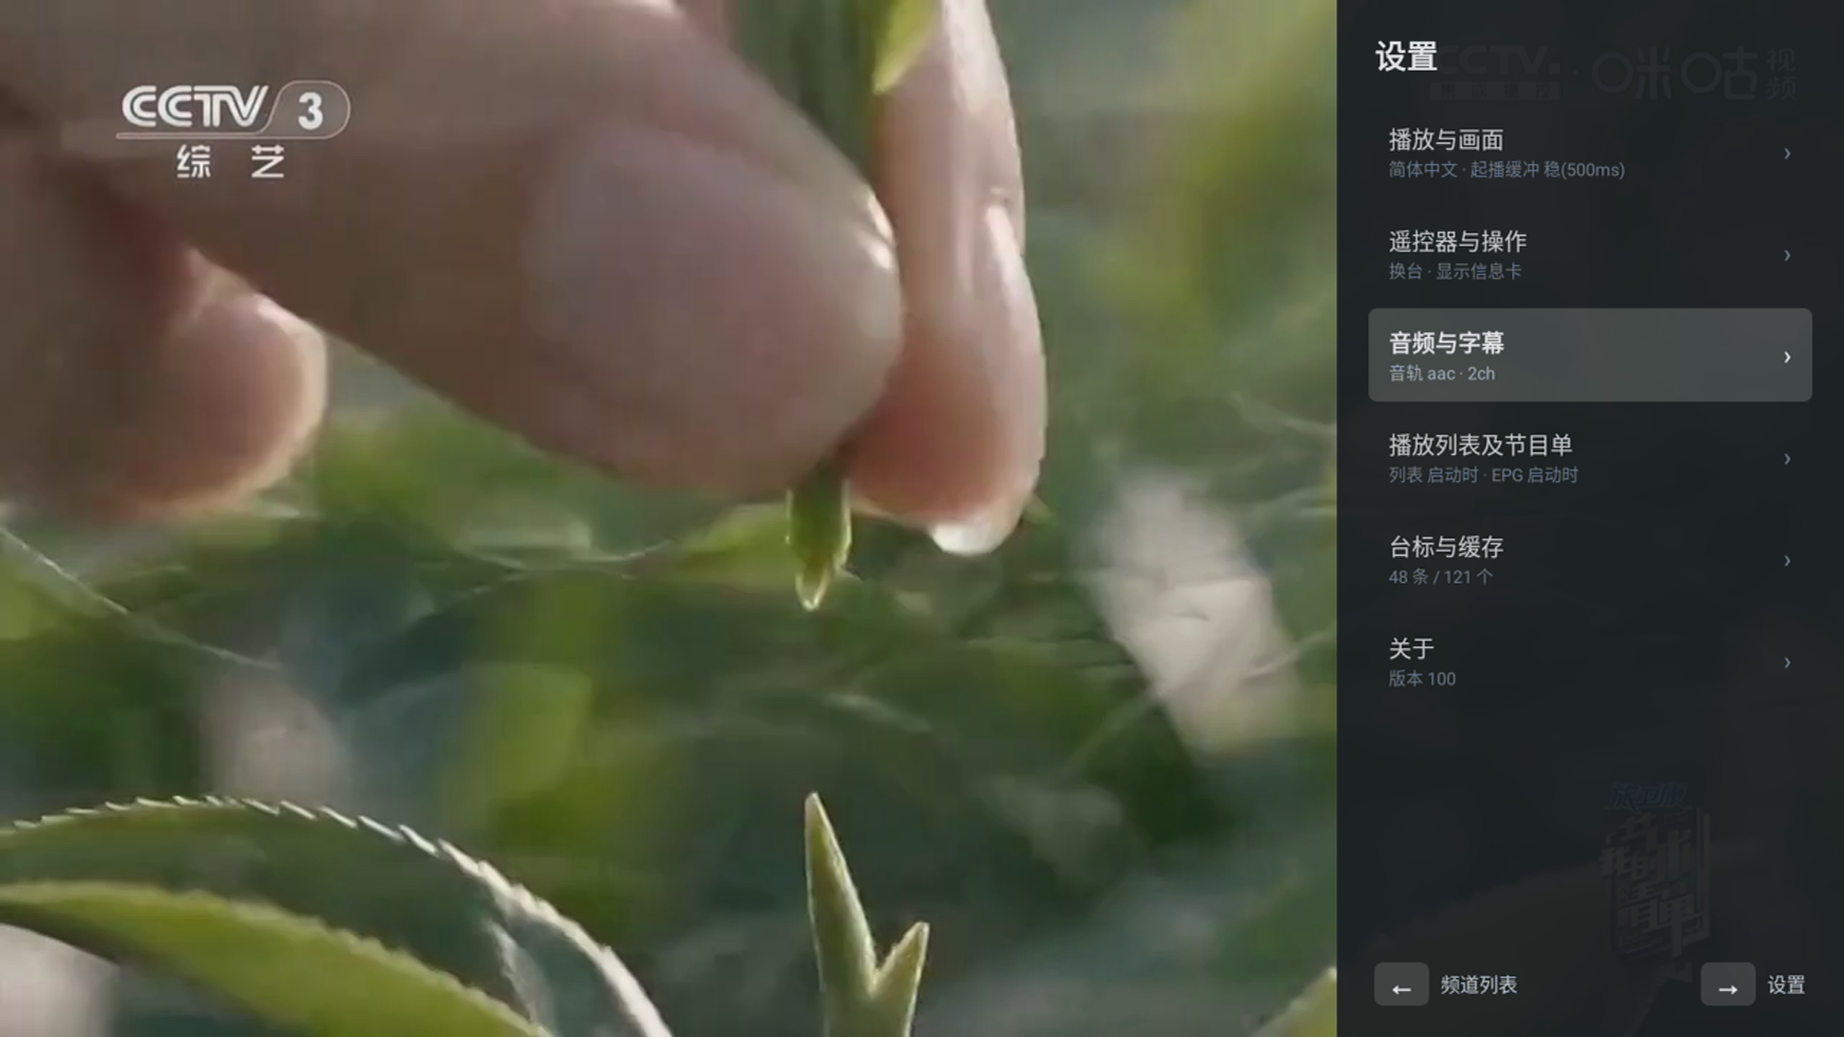
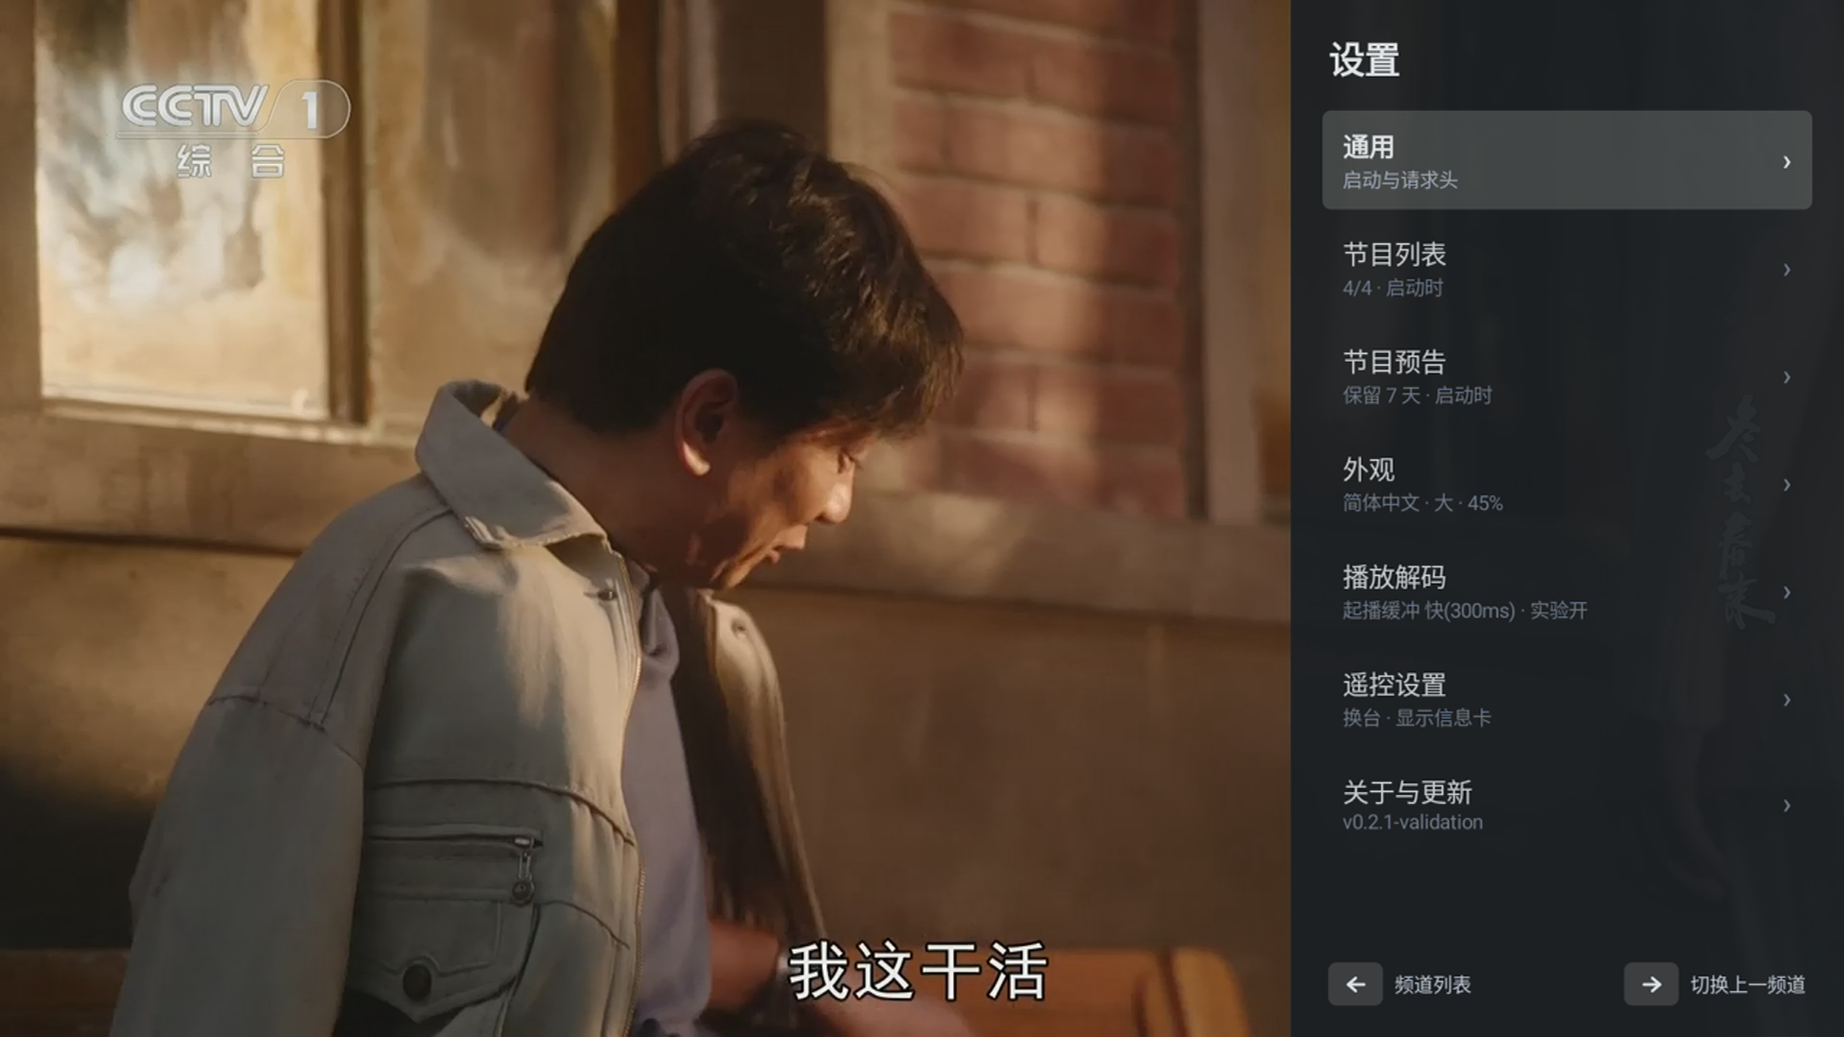
docs(readme): complete bilingual README, update v0.2.1 screenshots, strip quoted pipe UA

diff --git a/android/app/src/main/java/com/cjlhll/iptv/HttpStreamAddress.kt b/android/app/src/main/java/com/cjlhll/iptv/HttpStreamAddress.kt
@@ -21,8 +21,16 @@ object HttpStreamAddress {
         val headers: Map<String, String> = emptyMap(),
     )
 
+    private fun stripOuterQuotes(raw: String): String {
+        val s = raw.trim()
+        if (s.length >= 2 && ((s.startsWith('"') && s.endsWith('"')) || (s.startsWith('\'') && s.endsWith('\'')))) {
+            return s.substring(1, s.length - 1).trim()
+        }
+        return s
+    }
+
     fun normalizeUserAgent(raw: String?): String? {
-        val trimmed = raw?.trim().orEmpty()
+        val trimmed = stripOuterQuotes(raw.orEmpty())
         if (trimmed.isEmpty()) return null
         return if (trimmed.equals("VLC", ignoreCase = true)) DEFAULT_USER_AGENT else trimmed
     }
@@ -53,7 +61,9 @@ object HttpStreamAddress {
                 val keyRaw = segment.substring(0, eq).trim()
                 val valRaw = segment.substring(eq + 1).trim()
                 if (keyRaw.isEmpty() || valRaw.isEmpty()) continue
-                val decoded = runCatching { java.net.URLDecoder.decode(valRaw, "UTF-8") }.getOrDefault(valRaw).trim()
+                val decoded = stripOuterQuotes(
+                    runCatching { java.net.URLDecoder.decode(valRaw, "UTF-8") }.getOrDefault(valRaw)
+                )
                 if (decoded.isEmpty()) continue
                 val canonical = PlaylistSources.canonicalHeaderName(keyRaw)
                 pipeHeaders[canonical] = if (canonical == "User-Agent") {

diff --git a/android/app/src/test/java/com/cjlhll/iptv/PlaylistSourceTest.kt b/android/app/src/test/java/com/cjlhll/iptv/PlaylistSourceTest.kt
@@ -160,4 +160,15 @@ class PlaylistSourceTest {
         assertEquals(HttpStreamAddress.DEFAULT_USER_AGENT, headers3["User-Agent"])
         assertFalse(headers3.containsKey("Referer"))
     }
+
+    @Test
+    fun pipeQuotedUserAgentStripsOuterQuotes() {
+        val parsed = HttpStreamAddress.resolve(
+            url = "http://173.208.212.130:8181/720p/cctv1.m3u8|User-Agent=\"bingcha/1.1 (mianfeifenxiang)\"",
+            extinfUserAgent = "VLC",
+            extinfReferrer = null,
+        )
+        assertEquals("http://173.208.212.130:8181/720p/cctv1.m3u8", parsed.url)
+        assertEquals("bingcha/1.1 (mianfeifenxiang)", parsed.userAgent)
+    }
 }

diff --git a/README.md b/README.md
@@ -16,13 +16,13 @@
   </p>
 
   <p>
-    <a href="#为什么选择-iqtv-lite">产品优势</a> ·
+    <a href="#为什么选择-iqtv-lite">中文文档</a> ·
     <a href="#界面展示">界面展示</a> ·
     <a href="#核心功能">核心功能</a> ·
     <a href="#播放列表多线路与自定义-header-示例">播放列表与 Header</a> ·
     <a href="#安装与更新">安装与更新</a> ·
     <a href="#遥控器操作指南">遥控器操作</a> ·
-    <a href="#english-overview">English</a>
+    <a href="#english-documentation">English Documentation</a>
   </p>
 </div>
 
@@ -30,9 +30,9 @@
 
 ## 为什么选择 IQTV Lite
 
-- **完全免费与开源（GPLv3），零广告、无付费解锁墙**：多播放源切换、XMLTV 节目单、回看、自定义按键、手机扫码控制台与内置更新全部免费可用，没有会员门槛。
-- **极致轻量化与流畅性能优化**：安装包约 **8.6 MB**，底层采用轻量化原生高性能解析核心，面对上万条频道与大体积 EPG 节目单也能秒级加载与检索；选台列表与硬件解码全链路零等待，即使在老旧入门级电视盒子上连续上下换台、快速翻组也依然顺滑跟手。
-- **开箱兼容复杂直播源**：完整支持防盗链 `Referer` / `User-Agent` / `Cookie` 等请求头配置、单台多线路失效自动轮询、以及同 `tvg-id` 下的 4K 与标准高清独立区分。
+- **完全免费与开源（GPLv3），零广告、无付费解锁墙**：多播放源切换、XMLTV 节目单、回看、自定义按键、手机扫码网页配置与内置更新全部免费可用，没有会员门槛。
+- **极致轻量化与流畅性能优化**：安装包体积精简，底层采用 Rust 原生高性能解析核心与 SQLite EPG 索引，面对上万条频道与大体积节目单也能秒级加载与检索；选台列表与硬件解码全链路零等待，即使在入门级电视盒子上连续上下换台、快速翻组也依然顺滑跟手。
+- **开箱兼容复杂直播源**：完整支持防盗链 `Referer` / `User-Agent` / `Cookie` 等请求头配置（兼容单/双引号包裹值）、同频道多线路切换与失效自动轮询、以及同 `tvg-id` 下的 4K 与标准高清独立区分。
 
 ---
 
@@ -43,7 +43,7 @@
     <td width="50%" align="center">
       <img src="assets/screenshots/player-infocard.png" alt="播放信息卡与控制台" />
       <br />
-      <sub><b>双层智能信息栏</b>：换台仅轻量通透展示当前频道；按 OK 主动呼出完整控制台，下方一行集成最近观看频道与 收藏 / 适应 / 音轨 / 字幕 / 多画面 / 设置 快捷控制</sub>
+      <sub><b>双层智能信息栏</b>：换台轻量通透展示当前频道；按 OK 呼出完整控制台，集成最近观看频道与 收藏 / 线路切换 / 适应 / 音轨 / 字幕 / 多画面 / 设置 快捷控制</sub>
     </td>
     <td width="50%" align="center">
       <img src="assets/screenshots/channel-drawer.png" alt="频道列表与节目预告抽屉" />
@@ -58,16 +58,16 @@
       <sub><b>逐级抽屉与多源切换</b>：按左键依次展开「频道」「分组」「播放源」，视野清爽不遮挡画面</sub>
     </td>
     <td width="50%" align="center">
-      <img src="assets/screenshots/settings.png" alt="简洁电视端设置菜单" />
+      <img src="assets/screenshots/settings.png" alt="7大分类电视端设置菜单" />
       <br />
-      <sub><b>大屏设置中心</b>：7 大分类（通用 / 节目列表 / 节目预告 / 外观 / 播放解码 / 遥控设置 / 关于与更新），支持中英文实时切换、按键自定义与设置内联检查更新</sub>
+      <sub><b>7 大分类设置中心</b>：通用、节目列表、节目预告、外观、播放解码、遥控设置、关于与更新，底部自带按键操作提示</sub>
     </td>
   </tr>
   <tr>
     <td colspan="2" align="center">
-      <img src="assets/screenshots/webui-qr.png" alt="手机扫码与多源网页控制台" width="72%" />
+      <img src="assets/screenshots/webui-qr.png" alt="设置内嵌扫码 WebUI 配置" width="72%" />
       <br />
-      <sub><b>手机扫码多源控制台</b>：同一局域网下手机扫码或浏览器访问，免遥控器输入直接管理多源、全局请求头与播放偏好</sub>
+      <sub><b>设置内嵌扫码 WebUI</b>：无需跳转笨重控制台，在设置内直接扫码打开手机网页端，管理多源、全局请求头、播放偏好与 JSON 备份恢复</sub>
     </td>
   </tr>
 </table>
@@ -77,20 +77,22 @@
 ## 核心功能
 
 - **双层底部信息栏**：
-  - **上下键换台**：弹出更通透轻量的底部条，铺满展示当前台标、频道号、节目名称、进度条与实时视频参数（分辨率 / 帧率 / 声道 / HDR / 编码），数秒后自动收起。
-  - **按 `OK` 主动呼出**：展开稳重不透明的完整两行控制台——上方保留当前频道展示，下方一整行左侧展示 **最近观看频道**（台标 + 台名），右侧无缝衔接 **收藏 · 线路（多源时）· 适应（画面比例）· 音轨 · 字幕 · 多画面 · 设置** 快捷控制。
+  - **上下键换台**：弹出轻量半透明底部条，展示当前台标、频道号、节目名称、进度条与真实实时视频参数（分辨率 / 帧率 / 声道 / HDR / 编码），数秒后自动收起。
+  - **按 `OK` 主动呼出**：展开完整两行控制台——上方保留当前频道展示，下方左侧展示 **最近观看频道**（台标 + 台名），右侧无缝衔接 **收藏 · 线路（多源时）· 适应（画面比例）· 音轨 · 字幕 · 多画面 · 设置** 快捷控制。
 - **逐级展开选台抽屉**：
   - 按 `←` 打开 **频道 + 节目单**，聚焦长节目名自动平滑滚动；再次点击当前正在播放的直播台会直接收起抽屉，不重复加载。
-  - 再按一次 `←` 自动收起节目单，展示 **分组 + 频道**。
+  - 再按一次 `←` 展示 **分组 + 频道**，支持按默认 / 名称 / 手动排序分组，内置「全部」与「收藏夹」。
   - 若启用了多个播放源，继续按 `←` 展开最左侧 **播放源** 列表快速切换。
 - **聚合多线路与失效自动轮询**：
-  - 同一 `#EXTINF` 下附带多条备用地址会聚合为单一频道的多条线路，支持手动选源与播放失败时自动轮询下一条健康线路；不同 `#EXTINF` 条目严格保持各自独立。
-- **手机扫码远程配置（中英双语网页端）**：
-  - 在设置中直接展开局域网二维码（优先固定 `18080` 端口），手机扫码即可管理多播放源、全局请求头、显示与播放偏好、遥控按键以及 **JSON 配置备份与恢复**；移动端网页锁定防误触缩放，修改实时同步到电视端。
-- **7 大分类设置与 4K 防花屏解码**：
-  - 设置中心按「通用 · 节目列表 · 节目预告 · 外观 · 播放解码 · 遥控设置 · 关于与更新」清晰分级；内置硬件解码防花屏重建、默认字幕自动加载、右上角紧凑数字直选台、以及应用内「多画面」同屏对比（不劫持系统 `Home` 键）。
-- **双语界面与三档大屏缩放**：
-  - 首次启动主动选择 **简体中文** 或 **English**，随时可在设置或网页端切换，并提供 **小 / 中 / 大** 文字与台标尺寸。
+  - 同一 `#EXTINF` 下附带多条备用地址会自动聚合为单一频道的多条线路，在 OK 菜单显示 `线路 1/N` 手动切换按钮，并在播放失败时自动轮询下一条健康线路；不同 `#EXTINF` 条目严格保持各自独立。
+- **4K/HEVC 防花屏与默认字幕**：
+  - 支持 4K/HEVC 切台硬件解码器防花屏重建，以及默认字幕自动加载与首选语言（自动 / 中文 / English）切换。
+- **右上角紧凑数字直选台**：
+  - 按数字键仅在右上角轻量弹出匹配频道号与台名列表（不遮挡主画面），支持方向键筛选或超时自动跳转。
+- **设置内嵌手机扫码 WebUI（中英双语）**：
+  - 在设置中直接生成局域网二维码（固定主端口 `18080`，不可用时有序回退），手机扫码即可管理播放源、全局请求头、显示与播放偏好、遥控映射及 **JSON 配置备份与恢复**；手机端已锁定视口防止输入误触缩放。
+- **7 大分类设置与安全默认习惯**：
+  - 涵盖「通用 · 节目列表 · 节目预告 · 外观 · 播放解码 · 遥控设置 · 关于与更新」；默认不劫持系统 `Home` 键（桌面画中画需主动开启）、默认开启双击返回退出、`→` 默认「切换上一频道」（可自由改键）。
 
 ---
 
@@ -100,8 +102,8 @@
 - **同一频道多条备用线路**（一个 `#EXTINF` 下跟多行地址，自动合并并提供失效轮询与「线路」切换）：
 ```m3u
 #EXTINF:-1 tvg-id="dongfangweishi" tvg-name="东方卫视" tvg-logo="https://example.com/logo/dragontv.png" http-user-agent="VLC" group-title="卫视频道",东方卫视
-http://example.com/line1.m3u8
-http://example.com/line2.m3u8
+http://example.com/line1.m3u8|User-Agent=VLC
+http://example.com/line2.m3u8|User-Agent="CustomPlayer/1.1"
 http://example.com/line3.m3u8
 ```
 - **独立频道**（各自拥有 `#EXTINF`，即使 `tvg-id` 或名称相同也保持独立显示，如 `4K` 与标准版分别呈现）：
@@ -115,7 +117,7 @@ http://example.com/btvhd.m3u8|User-Agent=VLC
 ### 2. 自定义 HTTP Header 写法与优先级
 当同一频道同时存在多种 Header 声明时，生效优先级为：**`URL 后 | 参数` > `#EXTINF / #EXTVLCOPT` > `设置 / 网页端全局 Header`**。
 
-- **方式 A：播放地址后用 `|` 拼接（多个 Header 使用 `&` 或 `;` 连接）**
+- **方式 A：播放地址后用 `|` 拼接（多个 Header 使用 `&` 或 `;` 连接，值支持引号包裹）**
 ```text
 https://example.com/live.m3u8|User-Agent=VLC&Referer=https://example.com/&Origin=https://example.com&Cookie=sid=123
 ```
@@ -124,7 +126,7 @@ https://example.com/live.m3u8|User-Agent=VLC&Referer=https://example.com/&Origin
 #EXTINF:-1 http-user-agent="VLC" http-referer="https://example.com/" http-origin="https://example.com",示例频道
 http://example.com/stream.m3u8
 ```
-- **方式 C：全局自定义 User-Agent 与全局 Header（在「设置 → 播放列表及节目单」或手机网页端配置，每行一条）**
+- **方式 C：全局自定义 User-Agent 与全局 Header（在「设置 → 通用」或手机网页端配置，每行一条）**
 ```text
 Referer: https://example.com/
 Origin: https://example.com
@@ -152,20 +154,102 @@ X-Custom-Token: your-token
 | `Back` | 逐级退回或关闭菜单；在播放器全屏状态默认支持双击返回退出 |
 | `数字键` | 直接输入频道号，右上角实时显示匹配台名并自动跳转 |
 
-> 以上短按与长按行为均可在「设置 → 遥控器与操作」或手机网页端自由改键或置空。
+> 以上短按与长按行为均可在「设置 → 遥控设置」或手机网页端自由改键或置空。
 
 ---
 
-## English Overview
+# English Documentation
 
-**IQTV Lite** is a free, open-source (GPLv3), ad-free IPTV player crafted for Android TV remotes and entry-level TV boxes.
+<p>
+  <a href="#why-iqtv-lite">Why IQTV Lite</a> ·
+  <a href="#key-features">Key Features</a> ·
+  <a href="#playlist--custom-http-headers">Playlist & Headers</a> ·
+  <a href="#installation--updates">Installation & Updates</a> ·
+  <a href="#remote-control-guide">Remote Control</a> ·
+  <a href="#license">License</a>
+</p>
 
-- **Lightweight & Fast**: ~8.6 MB footprint powered by a fast native playlist & XMLTV parser for instant channel zapping and smooth scrolling even on modest TV hardware.
-- **Two-Tier Bottom Info Console**: Channel zapping shows a cleaner, more translucent full-width channel banner. Pressing `OK` reveals the full console adding quick-switch recent channels on the left and quick controls (**Favorite · Source · Aspect Ratio · Audio · Subtitles · Multi-Screen · Settings**) on the right; `→` defaults to **Previous Channel** and can be remapped anytime.
-- **Exact M3U Grouping & Auto-Failover**: Multiple URLs under one `#EXTINF` aggregate into a switchable multi-source channel with automatic failover polling, while separate `#EXTINF` entries stay independent. Supports inline `|User-Agent=...&Referer=...` (joined with `&`), `#EXTINF`/`#EXTVLCOPT` attributes, and global per-line headers.
-- **Scan-to-Configure Web Console & Backup**: Open the inline QR code inside Settings (fixed primary LAN port `18080`) from your phone browser to manage playlists, HTTP headers, display scale (`Small` / `Medium` / `Large`), UI language (`简体中文` / `English`), remote bindings, and **JSON backup/restore**.
-- **7-Category TV Settings & 4K Zap Resilience**: Clean 7-section settings drawer (General, Playlists, EPG, Appearance, Playback, Remote, About & Updates) with hardware 4K anti-artifacting rebuild, default subtitle loading, compact top-right numeric jump OSD, and in-app dual **Multi-Screen** mode.
-- **Install**: Download the signed APK from [**Latest Release**](https://github.com/zqs1qiwan/iqtvlite/releases/latest) (`Android TV 7.0+`, `arm64-v8a` & `armeabi-v7a`).
+## Why IQTV Lite
+
+- **100% Free & Open Source (GPLv3) — Zero Ads, Zero Paywalls**: Multi-playlist switching, XMLTV EPG, catch-up playback, custom key remapping, scan-to-configure WebUI, and in-app updates are all completely free.
+- **Lightweight & Tuned for Entry-Level TV Boxes**: Powered by a native Rust playlist/XMLTV parser and SQLite EPG store for near-instant loading across 10,000+ channels. Channel zapping and hardware decoding run with zero blocking probes on the hot path.
+- **Built for Real-World Streams**: Full support for anti-hotlink `Referer` / `User-Agent` / `Cookie` headers (including quoted values), single-channel multi-line failover & manual line switching, and separate 4K vs HD entries even when sharing the same `tvg-id`.
+
+## Key Features
+
+- **Two-Tier Bottom Info Console**:
+  - **Zapping (`↑` / `↓`)**: Displays a sleek, translucent banner with channel logo, number, title, live program progress, and verified stream tags (resolution, real FPS, audio channels, HDR, codec), auto-hiding after a few seconds.
+  - **Full Console (`OK`)**: Reveals the bottom control strip with **Recent Channels** on the left and quick actions on the right: **Favorite · Source Line (`Src 1/N`, when multi-line) · Aspect Ratio · Audio Track · Subtitles · Multi-Screen · Settings**.
+- **Progressive 4-Column Channel Drawer (`←`)**:
+  - Press `←` for **Channels + EPG** (clicking the currently playing channel closes the drawer without reloading).
+  - Press `←` again for **Groups + Channels** (supports Default / Name / Manual group ordering, plus toggleable *All* and *Favorites* groups).
+  - When multiple playlists are enabled, press `←` again to switch **Sources**.
+- **Multi-Line Aggregation & Auto-Failover**:
+  - Multiple stream URLs placed under a single `#EXTINF` block are grouped into one channel with a `Src 1/N` switcher in the `OK` menu and automatic failover on playback errors; separate `#EXTINF` entries remain independent.
+- **4K/HEVC Anti-Artifacting & Default Subtitles**:
+  - Optional hardware decoder rebuild on 4K/HEVC channel zaps to prevent stale frame artifacts on older Android TV SoCs, plus automatic subtitle loading with preferred language (`Auto` / `Chinese` / `English`).
+- **Compact Top-Right Numeric Jump OSD**:
+  - Typing digits opens a compact top-right match strip showing only matching channel numbers and names without obstructing playback.
+- **Inline QR WebUI Console & Backup/Restore**:
+  - Open Settings → General → Backup / Restore (or Header Edit) to display an inline LAN QR code (fixed primary port `18080`, ordered fallback). Scan from any phone browser to manage playlists, global headers, playback/display options, remote bindings, and **JSON backup/restore** with mobile viewport zoom lock.
+- **7-Category Settings & Safe Defaults**:
+  - Organized into **General · Playlists · EPG · Appearance · Playback · Remote · About & Updates**. Non-intrusive defaults: `Home` PiP and boot auto-start default to `OFF`, double-Back exit defaults to `ON`, and `→` defaults to **Previous Channel** (fully remappable).
+
+## Playlist & Custom HTTP Headers
+
+### 1. Multi-Line Aggregation vs Independent Channels
+- **Multiple backup lines for one channel** (multiple URLs under a single `#EXTINF` are merged for auto-failover and manual `Src 1/N` switching):
+```m3u
+#EXTINF:-1 tvg-id="dragontv" tvg-name="Dragon TV" tvg-logo="https://example.com/logo/dragontv.png" http-user-agent="VLC" group-title="Satellite",Dragon TV
+http://example.com/line1.m3u8|User-Agent=VLC
+http://example.com/line2.m3u8|User-Agent="CustomPlayer/1.1"
+http://example.com/line3.m3u8
+```
+- **Independent channels** (separate `#EXTINF` blocks stay separate even with the same `tvg-id`, ideal for 4K vs FHD feeds):
+```m3u
+#EXTINF:-1 tvg-id="btv" group-title="Satellite",BTV 4K
+https://example.com/btv4k.m3u8|Referer=https://api.example.com/
+#EXTINF:-1 tvg-id="btv" group-title="Satellite",BTV HD
+http://example.com/btvhd.m3u8|User-Agent=VLC
+```
+
+### 2. Header Syntax & Priority
+Header resolution order (highest to lowest): **`URL | params` > `#EXTINF / #EXTVLCOPT` > `Global Headers (Settings / WebUI)`**.
+
+- **Method A — Inline URL `|` suffix** (join multiple headers with `&` or `;`; quoted values supported):
+```text
+https://example.com/live.m3u8|User-Agent=VLC&Referer=https://example.com/&Origin=https://example.com&Cookie=sid=123
+```
+- **Method B — `#EXTINF` attributes or `#EXTVLCOPT:` lines**:
+```m3u
+#EXTINF:-1 http-user-agent="VLC" http-referer="https://example.com/" http-origin="https://example.com",Sample Channel
+http://example.com/stream.m3u8
+```
+- **Method C — Global User-Agent & Custom Headers** (configured in **Settings → General** or the WebUI, one per line):
+```text
+Referer: https://example.com/
+Origin: https://example.com
+X-Custom-Token: your-token
+```
+
+## Installation & Updates
+
+1. Download `IQTV-Lite-v0.2.1.apk` (or `IQTV-Lite-latest.apk`) from [**Latest Release**](https://github.com/zqs1qiwan/iqtvlite/releases/latest).
+2. Sideload onto your Android TV / TV box (`Android 7.0+`, supports both `arm64-v8a` and `armeabi-v7a`).
+3. Check for future updates directly in **Settings → About & Updates → Check for Updates**, or download from GitHub Releases.
+
+## Remote Control Guide
+
+| Key | Default Action |
+| --- | --- |
+| `↑` / `↓` | Switch to previous / next channel (shows translucent info banner) |
+| `OK` / `Enter` | Open full console; press `OK` again to navigate recent channels & quick controls (including `Src 1/N` and Settings gear) |
+| `←` | Open progressive drawer: **Channels + EPG → Groups → Sources** |
+| `→` | **Previous Channel** by default (remappable in **Settings → Remote**) |
+| `Back` | Step back / close overlays; double-Back to exit during fullscreen playback (default ON) |
+| `0–9` | Numeric channel jump with compact top-right match list |
+
+> All short-press and long-press actions can be freely remapped or cleared in **Settings → Remote** or via the phone WebUI.
 
 ---
 
